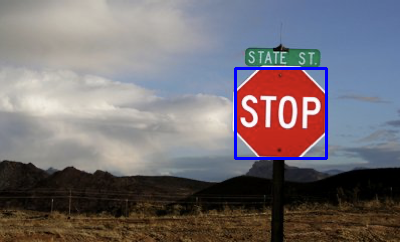
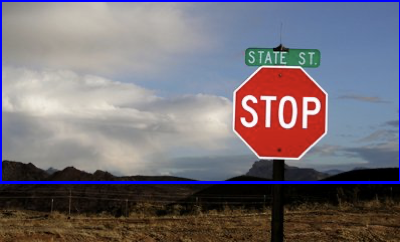
start from scratch

Changed region(s): [[0.0, 0.0, 1.0, 0.781], [0.57, 0.2603, 0.84, 0.6653]]

diff --git a/Homework-1/start.py b/Homework-1/start.py
@@ -1,67 +1,11 @@
-#%%
 import cv2
 import os
 import time
-import numpy as np
-import matplotlib.pyplot as plt
-
 
 def get_box(img):
-    pixel_values = img.reshape((-1, 3))
-    pixel_values = np.float32(pixel_values)
-
-    criteria = (cv2.TERM_CRITERIA_EPS + cv2.TERM_CRITERIA_MAX_ITER, 100, 0.2)
-    k = 4 
-    compactness, labels, centers = cv2.kmeans(
-        data=pixel_values, 
-        K=k, 
-        bestLabels=None, 
-        criteria=criteria, 
-        attempts=10, 
-        flags=cv2.KMEANS_RANDOM_CENTERS
-    )
-
-    centers = np.uint8(centers)
-    best_cluster_index = 0
-    max_redness = -99999
-
-    for i in range(len(centers)):
-        b, g, r = centers[i]
-        redness_score = int(r) - ((int(b) + int(g)) / 2)
-        
-        if redness_score > max_redness:
-            max_redness = redness_score
-            best_cluster_index = i
-
-    labels_reshaped = labels.flatten().reshape((img.shape[0], img.shape[1]))
-    mask = (labels_reshaped == best_cluster_index).astype(np.uint8) * 255
-    
-    contours, _ = cv2.findContours(mask, cv2.RETR_EXTERNAL, cv2.CHAIN_APPROX_SIMPLE)
-
-    best_box = (0, 0, 0, 0)
-    max_area = 0
-
-    if contours:
-        for cnt in contours:
-            area = cv2.contourArea(cnt)
-            # Ignoriamo rumore troppo piccolo
-            if area < 500: 
-                continue
-
-            x, y, w, h = cv2.boundingRect(cnt)
-            
-            # Un segnale di STOP è grosso modo quadrato.
-            # Aspect ratio = w / h. Deve essere vicino a 1 (es. tra 0.5 e 1.5)
-            aspect_ratio = float(w) / h
-            
-            # Nella tua foto errore, il box blu era l'orizzonte (molto largo, basso).
-            # Quello avrebbe un aspect ratio tipo 3.0 o 4.0 -> Verrebbe scartato qui.
-            if 0.5 < aspect_ratio < 1.5:
-                if area > max_area:
-                    max_area = area
-                    best_box = (x, y, x + w, y + h)
-
-    return best_box
+    # Your code start here #
+    # Have fun!            #
+    return 0, 0, 0, 0
 
 if __name__ == "__main__":
 
@@ -81,4 +25,134 @@ if __name__ == "__main__":
     end_time = time.time()
     #It usually takes about 10s
     print(f"Running time: {end_time - start_time} seconds")
-# %%
+
+#%%
+
+import cv2
+import os
+import matplotlib.pyplot as plt
+import numpy as np
+
+dir_path = './images/'
+i = 2
+img_name = f'stop{i}.png'
+img_path = os.path.join(dir_path, img_name)
+img = cv2.imread(img_path)
+
+# convert and show RGB image
+img_rgb = cv2.cvtColor(img, cv2.COLOR_BGR2RGB)
+
+# apply median filter to remove noise
+img_medianfiltered = cv2.medianBlur(img_rgb, ksize=5)
+
+# Soluzione: 
+img = cv2.cvtColor(img_medianfiltered, cv2.COLOR_RGB2LAB)
+
+# flatten the image
+flat_img = img.reshape((-1, 3))
+flat_img = np.float32(flat_img)
+
+criteria = (cv2.TERM_CRITERIA_EPS + cv2.TERM_CRITERIA_MAX_ITER, 10, 1.0)
+K = 5
+ret,label,center=cv2.kmeans(
+    flat_img,
+    K,
+    None,
+    criteria,
+    10,
+    cv2.KMEANS_PP_CENTERS
+)
+
+center = np.uint8(center)
+res = center[label.flatten()]
+res2_lab = res.reshape((img.shape))
+res2_bgr = cv2.cvtColor(res2_lab, cv2.COLOR_LAB2BGR)
+
+plt.imshow(res2_bgr)
+plt.title("K-Means Clustering")
+plt.show()
+
+# select the cluster with the maximum a* value (red color)
+cluster_id = np.argmax(center[:, 1])
+
+# create a binary mask for the red cluster
+mask_flat = np.where(label.flatten() == cluster_id, 255, 0).astype(np.uint8)
+
+# reshape the mask to the original image dimensions
+mask = mask_flat.reshape((img.shape[0], img.shape[1]))
+
+# show the binary mask
+plt.imshow(mask)
+plt.title("Binary Mask")
+plt.show()
+
+# find contours on the binary mask
+contours, hierarchy = cv2.findContours(mask, cv2.RETR_EXTERNAL, cv2.CHAIN_APPROX_SIMPLE)
+
+# copy the original image to draw on it
+img_contours = img.copy()
+
+# draw all the contours found (-1) in green (0, 255, 0) with thickness 3
+cv2.drawContours(img_contours, contours, -1, (0, 255, 0), 3)
+
+# show the results
+plt.imshow(img_contours)
+plt.title("Contours")
+plt.show()
+
+img_boxes = img.copy()
+
+# make sure we found at least one contour
+if len(contours) > 0:
+    # find the contour with the largest area using the max() function
+    contorno_principale = max(contours, key=cv2.contourArea)
+    
+    # calculate the coordinates of the bounding box
+    x, y, w, h = cv2.boundingRect(contorno_principale)
+    
+    # draw the bounding box
+    cv2.rectangle(img_boxes, (x, y), (x+w, y+h), (0, 255, 0), 5)
+
+# convert the image to RGB
+img_boxes_rgb = cv2.cvtColor(img_boxes, cv2.COLOR_LAB2RGB)
+
+# show the results
+plt.imshow(img_boxes_rgb)
+plt.title("Identified Sign!")
+plt.show()
+
+#%%
+
+
+def show_images(img1, img2):
+    plt.figure(figsize=(8, 4))
+    plt.subplot(1, 2, 1)
+    plt.title('Original Image')
+    plt.imshow(img1)
+    plt.subplot(1, 2, 2)
+    plt.title('Median Filtered Image')
+    plt.imshow(img2)
+    plt.show()
+
+
+def show_images(img1, img2):  
+    plt.imshow(img1) # crazy colors
+    plt.show()
+    # split LAB image into luminosity, green-red, blue-yellow channels
+    L, A, B = cv2.split(img2)
+
+    plt.figure(figsize=(12, 4))
+
+    plt.subplot(1, 3, 1)
+    plt.title('L (Luminosity) channel')
+    plt.imshow(L, cmap='gray')
+
+    plt.subplot(1, 3, 2)
+    plt.title('A (Green-Red) channel')
+    plt.imshow(A, cmap='RdYlGn_r') 
+
+    plt.subplot(1, 3, 3)
+    plt.title('B (Blue-Yellow) channel')
+    plt.imshow(B, cmap='YlGnBu_r') 
+
+    plt.show()
